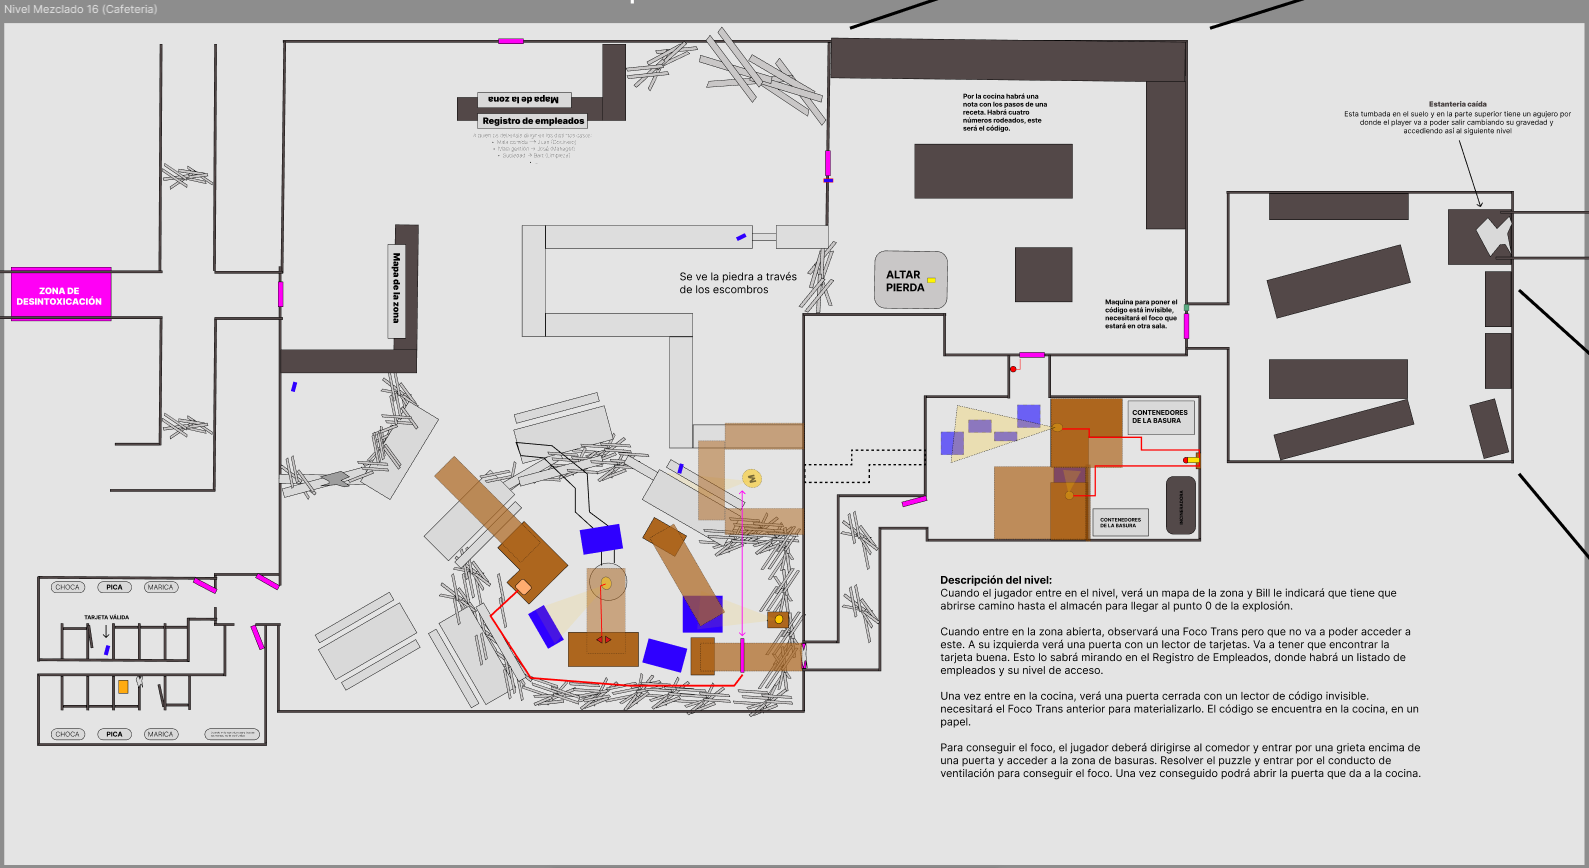
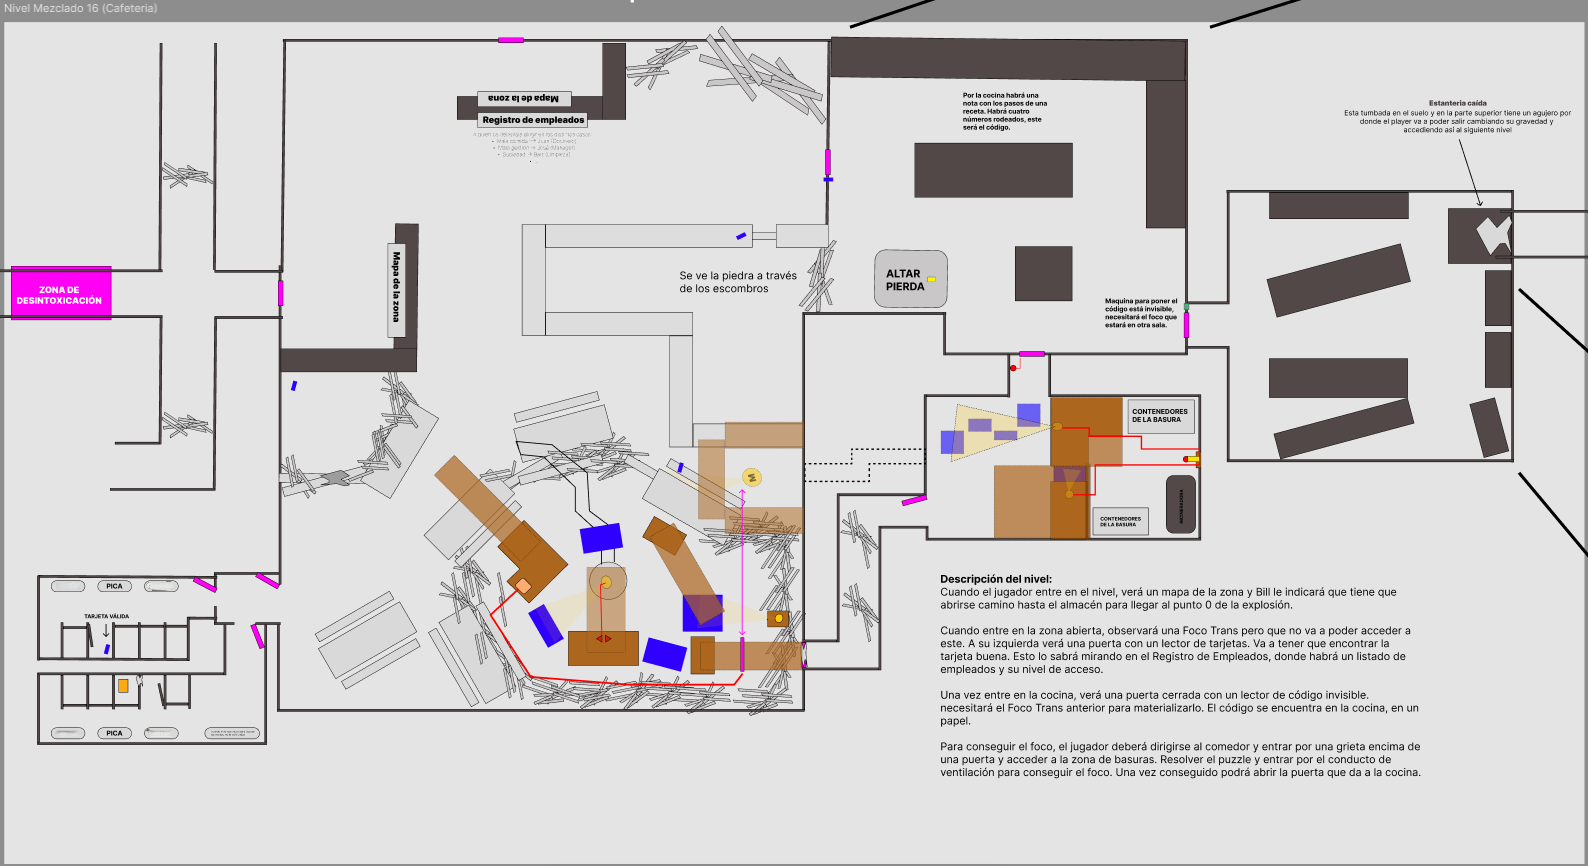
UPDATE: TLOU Section

diff --git a/docs/thelastofusbased.html b/docs/thelastofusbased.html
@@ -61,7 +61,7 @@
 						<!-- Post -->
 							<section class="post">
 								<header class="major">
-									<h1>The Last Of Us Based Level Design</h1>
+									<h1>The Last Of Us Based Level Design Blockout</h1>
 								</header>
 
 								<!-- Text stuff -->
@@ -72,23 +72,60 @@
 												<h6>Blockout (Unreal)</h6>
 												<h6>Design Documentation</h6>
 								</header>
-										<!-- <h2>The Design</h2>
-									<p><span class="image left"><img src="images/Echoes_Screenshot_1.png" alt="" /></span><b>Echoes From The Past</b> is a local cooperative 2.5D platformer. Players will embark on an adventure as two musician friends who must fight to save the world using the echoes of their voices and instruments in a dystopian future where robots have taken over the world thanks to AI. To do so, they’ll have to travel back in time to retrieve the echoes of the past so they can defeat the central AI that has taken control of the robots.<br /><br /></p>
-									<p><span class="image right"><img src="images/Echoes_Screenshot_2.png" alt="" /></span>In addition to walking and jumping, each player will have a unique ability: Player 1 will be able to reveal invisible objects using sound waves to make them vibrate; these objects will remain visible for 2.5 seconds, and the player can use this ability every 2 seconds; Player 2 will be able to use an echo (sound waves that bounce to push objects), which bounces only once, and can have only one active echo at a time (the echo disappears on the second bounce or if a character “hears” it).<br /></i></p>
-									<p><span class="image left"><img src="images/Echoes_Screenshot_3.png" alt="" /></span><br />For this game, I worked as a Level Designer. The challenge was to create 6 different levels related to a travel through history. The idea was to make this travel seamless, so I used the logical reading order (from left to right) to symbolize this time travel: if you walked left you walked towards the past; and when walking right you went towards the future again. <br /><br /><br />With that idea, I just had to display the levels the following way to make them all come together:</i></p>
-									<span class="image"><img src="images/EchoesLevelsOverview.png" alt="" /></span> -->
-<!-- 						
+									<ul class="actions fit">
+										<li><a href="https://docs.google.com/document/d/1mzEjiMPBhjdFGVH--cOggRHVTnYF9Be3-VVbZ1Q1huo/edit?tab=t.0#heading=h.chaxwe7qwr7q" class="button primary fit">Worldbuilding Level Design Document</a></li>
+									</ul>
+								<h2>The Level: Abandoned power plant</h2>
+								<h3>Design intentions and goals</h3>
+									<p>In this level, the player will have a clear objective: find a first aid kit (or the best they can find) in order to patch their wound. 
+									During this level, the player will encounter human enemies that will be patrolling the site, but due to their wound the player will only be able to kill
+									 the enemies from the back with the knife they are carrying.</p>
+						
+								<h3>Narrative and player objectives</h3>
+									<p>Once the player escapes the woods, they encounter an abandoned power plant. This will be secured by some little group of ex-militants that established their camp some days ago. 
+										For the player’s luck, they carry a lot of medical supplies. 
+										These will be in a well secured room that will need power so the player can access, since the rainy days cutted the light off.
+										The player will have to find the first aid kit, heal their wounds and escape from there in order to reach the lighthouse, situated a few miles away.</p>
+
+								<h3>Gameplay</h3>
+								<p>This level will feature stealthy combat, loot and solving puzzles in order to achieve the player’s objective.</p>
+								
+								<h3>Unique game elements</h3>
+								<ul>
+									<li>Stealth human combat.</li>
+									<li>Loot, related with environment puzzles (keys, gears…) to progress.</li>
+								</ul>
+
+								<h4>2D Layout (Figma)</h4>
+									<ul class="actions fit">
+										<li><a href="https://www.figma.com/design/lD6Bc72zs2XRVMFF3lLK4z/DB_PowerPlantLayout?node-id=0-1&t=ZvKQIwiJXtTZauvU-1" class="button fit icon solid fa-search">Figma Link</a></li>
+									</ul>	
 								<div class="box alt">
 									<div class="row gtr-50 gtr-uniform">
-										<div class="col-4"><span class="image fit"><img src="images/EchoesLvl3.png" alt="" /></span></div>
-										<div class="col-4"><span class="image fit"><img src="images/EchoesLvl2.png" alt="" /></span></div>
-										<div class="col-4"><span class="image fit"><img src="images/EchoesLvl1.png" alt="" /></span></div>
-
-										<div class="col-4"><span class="image fit"><img src="images/EchoesLvl4.png" alt="" /></span></div>
-										<div class="col-4"><span class="image fit"><img src="images/EchoesLvl5.png" alt="" /></span></div>
-										<div class="col-4"><span class="image fit"><img src="images/EchoesLvl6.png" alt="" /></span></div>
+										<div class="col-3"><span class="image main"><img src="images/thelastofus-figma-legend.png" alt="" /></span></div>
+										<div class="col-9"><span class="image fit"><img src="images/thelastofus-figma.png" alt="" /></span></div>
 									</div>
-								</div>	 -->
+								</div>	
+								
+								<h3>Level Blockout</h3>
+									<ul class="actions fit">
+										<li><a href="https://docs.google.com/document/d/1mzEjiMPBhjdFGVH--cOggRHVTnYF9Be3-VVbZ1Q1huo/edit?tab=t.0#heading=h.glv868hyjf9o" class="button fit icon solid fa-search">Level Breakdown Explanation</a></li>
+									</ul>	
+									<div class="box alt">
+										<div class="row gtr-50 gtr-uniform">
+											<div class="col-4"><span class="image fit"><img src="images/tlou-image1.png" alt="" /></span></div>
+											<div class="col-4"><span class="image fit"><img src="images/tlou-image2.png" alt="" /></span></div>
+											<div class="col-4"><span class="image fit"><img src="images/tlou-image3.png" alt="" /></span></div>
+											<!-- Break -->
+											<div class="col-4"><span class="image fit"><img src="images/tlou-image4.png" alt="" /></span></div>
+											<div class="col-4"><span class="image fit"><img src="images/tlou-image5.png" alt="" /></span></div>
+											<div class="col-4"><span class="image fit"><img src="images/tlou-image6.png" alt="" /></span></div>
+											<!-- Break -->
+											<div class="col-4"><span class="image fit"><img src="images/tlou-image7.png" alt="" /></span></div>
+											<div class="col-4"><span class="image fit"><img src="images/tlou-image8.png" alt="" /></span></div>
+											<div class="col-4"><span class="image fit"><img src="images/tlou-image9.png" alt="" /></span></div>
+										</div>
+									</div>
 					</div>
 
 				<!-- Footer -->

diff --git a/docs/index.html b/docs/index.html
@@ -91,8 +91,8 @@
 										<h2><a href="https://store.steampowered.com/app/3051520/Unlighted/">Unlighted</a></h2>
 										<h6><code>Audience's Best Catalan Game Finalist 2025</code></h6>
 										<h6>Single Player / Puzzle</h6>
-										<h6>Development time: 1 year 6 months</h6>
-										<h6>Role: Level Designer & Unity Dev</h6>
+										<h6><u>Development time:</u> 1 year 6 months</h6>
+										<h6><u>Role:</u> Level Designer & Unity Dev</h6>
 									</header>
 									
 									<!-- YouTube embed -->
@@ -114,8 +114,8 @@
 										<span class="date">June, 2024</span>
 										<h2><a href="">The Last Of Us Based Level Design</a></h2>
 										<h6>Single Player / Adventure</h6>
-										<h6>Development time: 1 month</h6>
-										<h6>Role: Level Designer</h6>
+										<h6><u>Development time:</u> 1 month</h6>
+										<h6><u>Role:</u> Level Designer</h6>
 									</header>
 									<span class="image fit">
 										<div class="video-embed">
@@ -123,7 +123,7 @@
 										</div>
 									</span>
 									<!-- <a href="https://www.youtube.com/watch?v=6xFiIvS6Xe8" class="image main"><img src="images/EchoesLogo.png" alt="" /></a> -->
-									<p>The player has a clear objective: find a first aid kit (or the best they can find) in order to patch their wound.
+									<p>The player has a clear objective: find a first aid kit to patch their wound.
 										During this level, the player will encounter human enemies that will be patrolling the site, but due to their wound the player will only be able to kill the enemies from the back with the knife they are carrying.
 									</p>
 									<ul class="actions special">
@@ -136,8 +136,8 @@
 										<h2><a href="https://nautilusstudios.itch.io/echoes-from-the-past">Echoes From The Past</a></h2>
 										<h6><code>Best Design Award</code></h6>
 										<h6>Local co-op / Puzzle</h6>
-										<h6>Development time: 7 days (Game Jam)</h6>
-										<h6>Role: Level Designer</h6>
+										<h6><u>Development time:</u> 7 days (Game Jam)</h6>
+										<h6><u>Role:</u> Level Designer</h6>
 									</header>
 									<span class="image fit">
 										<div class="video-embed">
@@ -151,26 +151,25 @@
 										<li><a href="echoesfromthepast.html" class="button">My contribution</a></li>
 									</ul>
 								</article>
-								<article>
+								<!-- <article>
 									<header>
 										<span class="date">June, 2023</span>
 										<h2><a href="https://projectwastelanders.github.io/ProjectWastelanders/game.html">Guardians of the Galaxy: The Bet</a></h2>
 										<h6 class="date">Single Player / Top-down action shooter </h6>
-										<h6>Development time: 5 months</h6>
-										<h6>Role: Game Designer (Level, Mechanics, Economy)</h6>
+										<h6><u>Development time:</u> 5 months</h6>
+										<h6><u>Role:</u> Game Designer (Level, Mechanics, Economy)</h6>
 									</header>
 									<span class="image fit">
 										<div class="video-embed">
 											<iframe src="https://www.youtube.com/embed/vrAAI4zPIIY?si=bsKOY99oM8NtEOP7" title="Guardians Of The Galaxy: The Bet Trailer" referrerpolicy="strict-origin-when-cross-origin" allowfullscreen></iframe>
 										</div>
 									</span>
-									<!-- <a href="https://www.youtube.com/watch?v=vrAAI4zPIIY" class="image main"><img src="images/GuardiansLogo.png" alt="" /></a> -->
 									<p>Top-Down Action Shooting game set in the Marvel Universe. Play through completely different worlds with the Guardians of the Galaxy squad and battle against those who threaten the universe with unique weapons. 
 										Unlock different types of skills while progressing in the story and create all kinds of weapons to fight the evil.</p>
 									<ul class="actions special">
 										<li><a href="guardiansthebet.html" class="button">My contribution</a></li>
 									</ul>
-								</article>
+								</article> -->
 							</section>
 
 						<!-- Footer -->
